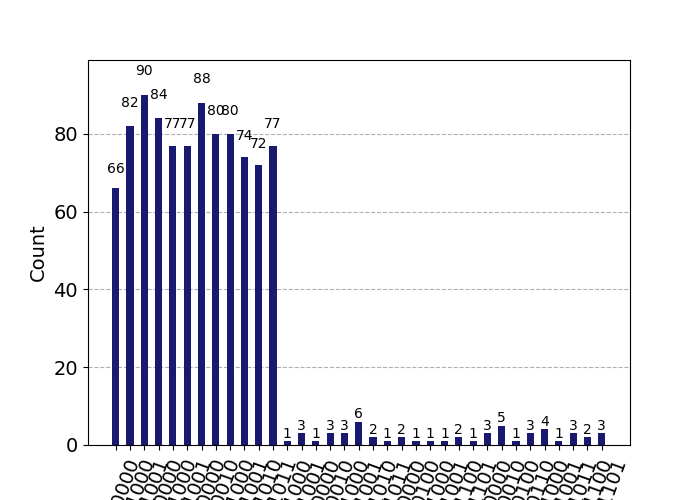
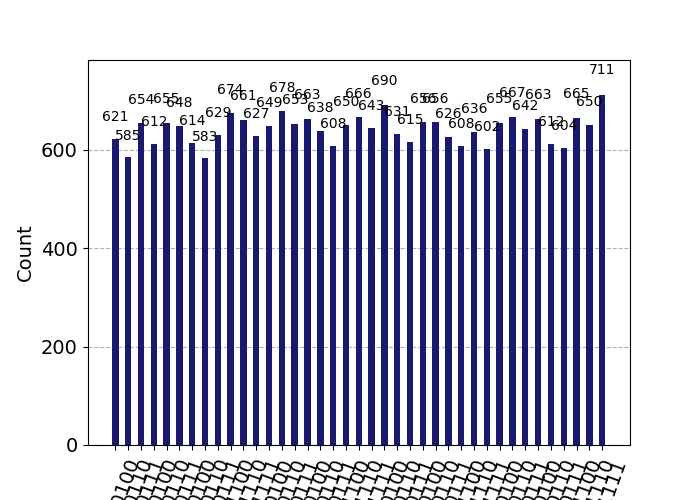
uhm

diff --git a/white_prep_test_simmetry.py b/white_prep_test_simmetry.py
@@ -13,6 +13,15 @@ def control_rotation(qc, control, target, theta):
     qc.u(-theta_dash, 0, 0, target)
     return qc
 
+def print_results(results):
+    for res in results:
+        print_graph(res)
+
+
+def print_graph(g):
+    last = g.split(' ')[0]
+    g = np.reshape([char for char in last], (3, 3))
+    print_dungeon(g)
 
 def wn(circuit, n):
     for i in range(n):
@@ -50,18 +59,6 @@ def count_results(results):
     print(res)
     histogram = plot_histogram(res, color='midnightblue')
     histogram.savefig('histogram.png')
-
-
-def print_results(results):
-    return
-    for res in results:
-        print_graph(res)
-
-
-def print_graph(graph):
-    last = graph.split(' ')[0]
-    g = np.reshape([char for char in last], (3, 3))
-    print_dungeon(g)
 
 
 def run(circuit):
@@ -124,19 +121,20 @@ image.savefig('circuit_image.png')
 statevector_sim = Aer.get_backend('statevector_simulator')
 job = execute(qc, statevector_sim)
 result = job.result()
-outputstate = result.get_statevector(qc, decimals=3)
+outputstate = result.get_statevector(qc, decimals=5)
 print(outputstate)
 
-count_non_zero = sum(1 for element in outputstate if element != 0)
+count_non_zero = sum(1 for element in outputstate if not np.isclose(element, 0, atol=1e-8, rtol=0))
 print("Non zero elements: " + str(count_non_zero))
 print("Tot values: " + str(len(outputstate)))
 
 ones_state = [1 if element != 0 else 0 for element in outputstate]
 print(ones_state)
-count_non_zero = sum(1 for element in ones_state if element != 0)
+count_non_zero = sum(1 for element in ones_state if not np.isclose(element, 0, atol=1e-8, rtol=0))
 print("Non zero elements: " + str(count_non_zero))
 
 normalized_vector = np.asarray(ones_state) / np.linalg.norm(ones_state)
+
 print(normalized_vector)
 
 qc = QuantumCircuit(9)
@@ -181,6 +179,7 @@ qc = QuantumCircuit(graph, oracle, anc, c)
 qc.barrier(label="State preparation")
 qc.append(stat_prep, graph)
 
+
 qc.barrier(label="Oracle preparation")
 qc.x(9)
 qc.h(9)
@@ -188,7 +187,7 @@ qc.h(9)
 for i in range(1):
     qc.barrier(label="Oracle")
     # oracle
-    qc.ccx(7, 8, 9)
+    qc.cx(8, 9)
 
     qc.barrier(label="Diffusion")
 
@@ -199,9 +198,7 @@ for i in range(1):
     qc.barrier()
 
     # Multi-controlled Z
-    qc.h(8)
-    qc.mct(list(range(8)), 8)
-    qc.h(8)
+    cnz(qc, 7, graph, anc)
 
     qc.barrier()
 
@@ -218,7 +215,15 @@ image = circuit_drawer(qc, output='mpl')
 image.savefig('circuit_image_2.png')
 
 sim = Aer.get_backend('qasm_simulator')
-job = execute(qc, sim, shots=1000)
+job = execute(qc, sim, shots=25000)
 result = job.result()
 counts = result.get_counts(qc)
 count_results(counts)
+
+print_results(counts.keys())
+
+statevector_sim = Aer.get_backend('statevector_simulator')
+job = execute(qc, statevector_sim)
+result = job.result()
+outputstate = result.get_statevector(qc, decimals=5)
+print(outputstate)

diff --git a/pattern_reduction.py b/pattern_reduction.py
@@ -3,8 +3,10 @@ import io
 import json
 from collections import deque
 
+from matplotlib import pyplot as plt
 from qiskit import QuantumRegister, ClassicalRegister, QuantumCircuit, Aer, execute
 from qiskit.circuit import qpy_serialization
+from qiskit.visualization import circuit_drawer
 
 
 def get_neighbors(circ):
@@ -98,10 +100,46 @@ def main():
     result = job.result()
 
     print(qc.draw("text"))
+    expected = sorted(result.get_counts(qc).keys())
 
-    expected = result.get_counts(qc).keys()
+    nodes = QuantumRegister(5, "node")
+    final_ancilla = QuantumRegister(1, "final")
+    node_measurement = ClassicalRegister(5, "measure")
+    result_measurement = ClassicalRegister(1, "result_measure")
+
+    qc2 = QuantumCircuit(nodes, final_ancilla, node_measurement, result_measurement)
+    qc2.h(range(5))
+    qc2.barrier()
+    qc2.x(range(1, 5))
+    qc2.mcx([1, 2, 3, 4], 5)
+    qc2.x(range(1, 5))
+    qc2.barrier()
+    qc2.x(5)
+    qc2.barrier()
+    qc2.x(0)
+    qc2.cx(0, 5)
+    qc2.x(0)
+    qc2.barrier()
+    qc2.measure(nodes, node_measurement)
+    qc2.measure(final_ancilla, result_measurement)
+    print(qc2.draw("text"))
     print(expected)
+    job = execute(qc2, simulator, shots=1000)
+    result = job.result()
+    expected2 = sorted(result.get_counts(qc2).keys())
+    print(expected2)
+    print(expected == expected2)
 
+    # Disegna il circuito utilizzando Matplotlib
+    fig, ax = plt.subplots()
+    circuit_drawer(qc2, output='mpl', ax=ax)
+    ax.axis('on')  # Mantieni gli assi visibili
+
+    plt.savefig('advanced_oracle.png', dpi=300)
+
+
+
+"""
     base_qc = QuantumCircuit(nodes, final_ancilla, result_measurement, node_measurement)
     base_qc.h(nodes)
 
@@ -133,7 +171,7 @@ def main():
             if circ_to_key(neighbor) not in visited:
                 queue.append(neighbor)
                 visited.add(circ_to_key(neighbor))
-
+"""
 
 if __name__ == "__main__":
     main()

diff --git a/white_prep_test_no_measure_NOPE.py b/white_prep_test_no_measure_NOPE.py
@@ -87,7 +87,7 @@ for i in range(9):
         current = edges.pop(0)
         done.append(current)
         if i != current[1] and current[1] not in hadamards:
-            qc.ch(current[0], current[1])#.c_if(first_measures[i], 0).c_if(second_measures[i], 1)
+            qc.ch(current[0], current[1]).c_if(first_measures[i], 0).c_if(second_measures[i], 1)
             hadamards.append(current[1])
             additional_edges = [e for e in undirected_edges if e[0] == current[1]]
             for e in additional_edges:
